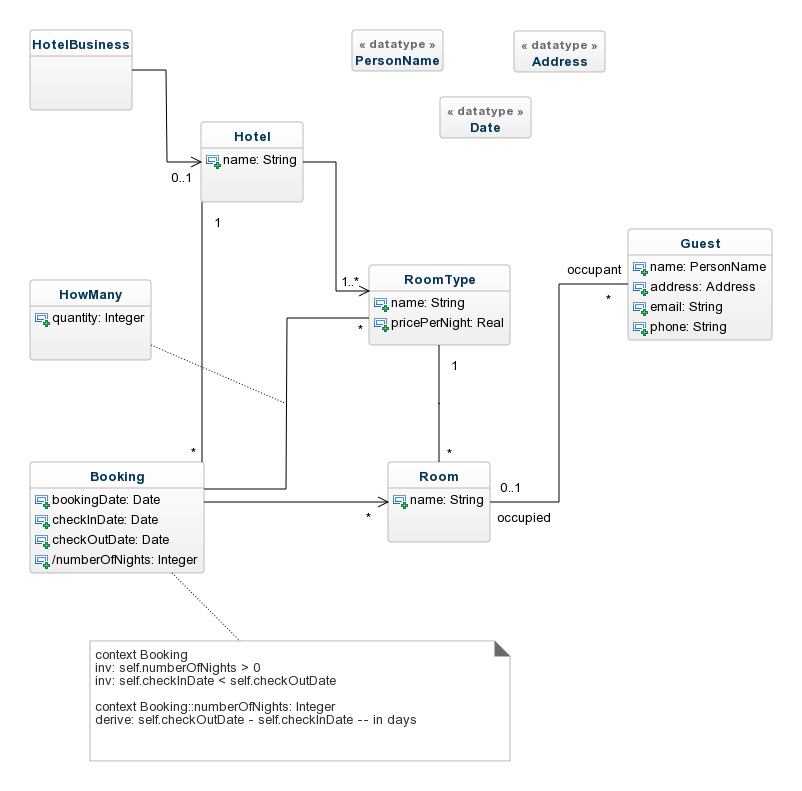
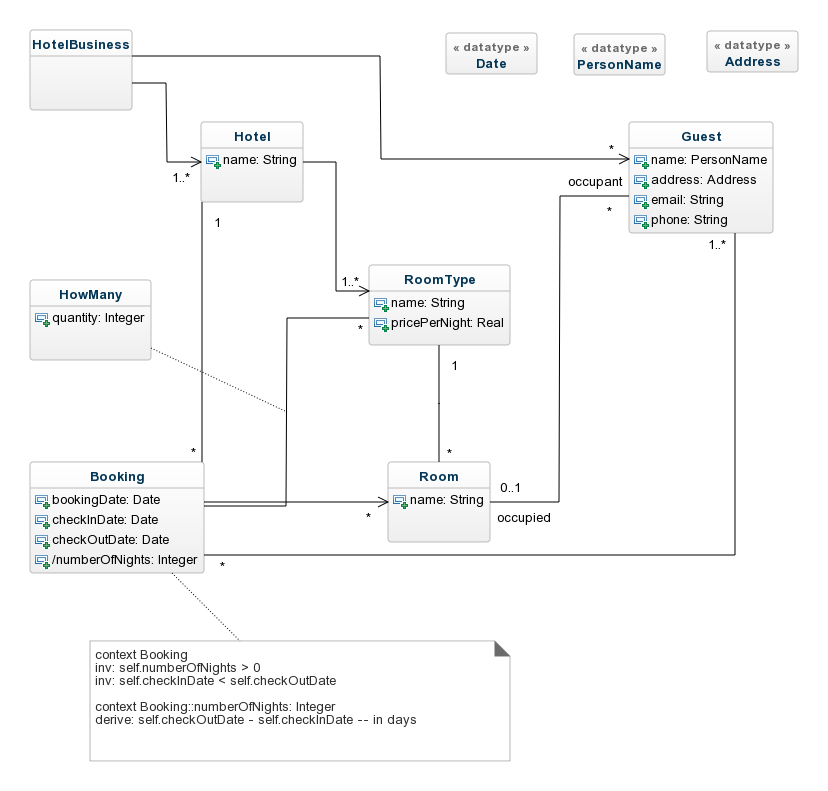
commit by markheydon using genmymodel: v20180706_183301

diff --git a/model/Booking.html b/model/Booking.html
@@ -1,7 +1,7 @@
 <html>
     <header><title>Booking</title></header>
     <body>
-        <h1>Booking [Class] (from <a href='../model.html'>model</a>)</h1>
+        <h1>Booking [Class] (from <a href='..//model/index.html'>model</a>)</h1>
         
         
         
@@ -32,6 +32,8 @@
             <dt> hotel : <a href='../model/Hotel.html'>Hotel</a></dt>
                 <dd>  <i>No desription</i></dd>
                     <dt> room : <a href='../model/Room.html'>Room</a></dt>
+                <dd>  <i>No desription</i></dd>
+                    <dt> guest : <a href='../model/Guest.html'>Guest</a></dt>
                 <dd>  <i>No desription</i></dd>
                     <dt> roomType : <a href='../model/RoomType.html'>RoomType</a></dt>
                 <dd>  <i>No desription</i></dd>

diff --git a/model/Guest.html b/model/Guest.html
@@ -1,7 +1,7 @@
 <html>
     <header><title>Guest</title></header>
     <body>
-        <h1>Guest [Class] (from <a href='../model.html'>model</a>)</h1>
+        <h1>Guest [Class] (from <a href='..//model/index.html'>model</a>)</h1>
         
         
         
@@ -29,7 +29,9 @@
         
         <h2>Associations</h2>
         <dl>
-            <dt> occupied : <a href='../model/Room.html'>Room</a></dt>
+            <dt> booking : <a href='../model/Booking.html'>Booking</a></dt>
+                <dd>  <i>No desription</i></dd>
+                    <dt> occupied : <a href='../model/Room.html'>Room</a></dt>
                 <dd>  <i>No desription</i></dd>
                 
         </dl>

diff --git a/model/HotelBusiness.html b/model/HotelBusiness.html
@@ -1,7 +1,7 @@
 <html>
     <header><title>HotelBusiness</title></header>
     <body>
-        <h1>HotelBusiness [Class] (from <a href='../model.html'>model</a>)</h1>
+        <h1>HotelBusiness [Class] (from <a href='..//model/index.html'>model</a>)</h1>
         
         
         
@@ -15,6 +15,8 @@
         <h2>Associations</h2>
         <dl>
             <dt> hotel : <a href='../model/Hotel.html'>Hotel</a></dt>
+                <dd>  <i>No desription</i></dd>
+                    <dt> guest : <a href='../model/Guest.html'>Guest</a></dt>
                 <dd>  <i>No desription</i></dd>
                 
         </dl>

diff --git a/model/HowMany.html b/model/HowMany.html
@@ -1,12 +1,13 @@
 <html>
     <header><title>HowMany</title></header>
     <body>
-        <h1>HowMany [Class] (from <a href='../model.html'>model</a>)</h1>
+        <h1>HowMany [Class] (from <a href='..//model/index.html'>model</a>)</h1>
         
         
         
         <h2>Description</h2>
-              <i>No desription</i>
+            <p>The number rooms of a specific RoomType as required by the Booking.&nbsp; In most cases likely to be a single room type but could be several rooms of different types.</p>
+        
         
         <h2>Attributes</h2>
         <dl>

diff --git a/model/RoomType_Room.html b/model/RoomType_Room.html
@@ -6,7 +6,8 @@
         
         
         <h2>Description</h2>
-              <i>No desription</i>
+            <p>RoomTypes (within a Hotel) will have one or more Rooms of that type which can be Booked.&nbsp; A Hotel could have zero Rooms of a specific RoomType but then Bookings would be able to made for any rooms.&nbsp; I.e. it is insufficient to have a RoomType without any Rooms in a working system although technically possible.</p>
+        
         
         <h2>Attributes</h2>
         No additional attributes

diff --git a/model/Guest_Booking.html b/model/Guest_Booking.html
@@ -1,12 +1,12 @@
 <html>
-    <header><title>Guest_Room</title></header>
+    <header><title>Guest_Booking</title></header>
     <body>
-        <h1>Guest_Room</h1>
+        <h1>Guest_Booking</h1>
         
         
         
         <h2>Description</h2>
-            <p>A Guest can occupy a Room.</p>
+            <p>A Guest can have several bookings.&nbsp; A single Booking is for one or more Guests, derived by the fact a Guest is Booked into a Room.</p>
         
         
         <h2>Attributes</h2>

diff --git a/model/Guest_HotelBusiness.html b/model/Guest_HotelBusiness.html
@@ -1,12 +1,12 @@
 <html>
-    <header><title>Guest_Room</title></header>
+    <header><title>Guest_HotelBusiness</title></header>
     <body>
-        <h1>Guest_Room</h1>
+        <h1>Guest_HotelBusiness</h1>
         
         
         
         <h2>Description</h2>
-            <p>A Guest can occupy a Room.</p>
+            <p>A Guest is a customer of the HotelBusiness as a whole by having one or more Bookings at one of the Hotels.</p>
         
         
         <h2>Attributes</h2>

diff --git a/model/HotelBusiness_Hotel.html b/model/HotelBusiness_Hotel.html
@@ -6,7 +6,8 @@
         
         
         <h2>Description</h2>
-              <i>No desription</i>
+            <p>A Hotel is part of a HotelBusiness.&nbsp; The system needs at least one Hotel to be valid.</p>
+        
         
         <h2>Attributes</h2>
         No additional attributes

diff --git a/model/RoomType.html b/model/RoomType.html
@@ -1,7 +1,7 @@
 <html>
     <header><title>RoomType</title></header>
     <body>
-        <h1>RoomType [Class] (from <a href='../model.html'>model</a>)</h1>
+        <h1>RoomType [Class] (from <a href='..//model/index.html'>model</a>)</h1>
         
         
         

diff --git a/model/Booking_Room.html b/model/Booking_Room.html
@@ -6,7 +6,8 @@
         
         
         <h2>Description</h2>
-              <i>No desription</i>
+            <p>Bookings are for phsyical rooms of the specific RoomType.</p>
+        
         
         <h2>Attributes</h2>
         No additional attributes

diff --git a/model/Hotel.html b/model/Hotel.html
@@ -1,7 +1,7 @@
 <html>
     <header><title>Hotel</title></header>
     <body>
-        <h1>Hotel [Class] (from <a href='../model.html'>model</a>)</h1>
+        <h1>Hotel [Class] (from <a href='..//model/index.html'>model</a>)</h1>
         
         
         

diff --git a/model/Room.html b/model/Room.html
@@ -1,7 +1,7 @@
 <html>
     <header><title>Room</title></header>
     <body>
-        <h1>Room [Class] (from <a href='../model.html'>model</a>)</h1>
+        <h1>Room [Class] (from <a href='..//model/index.html'>model</a>)</h1>
         
         
         
